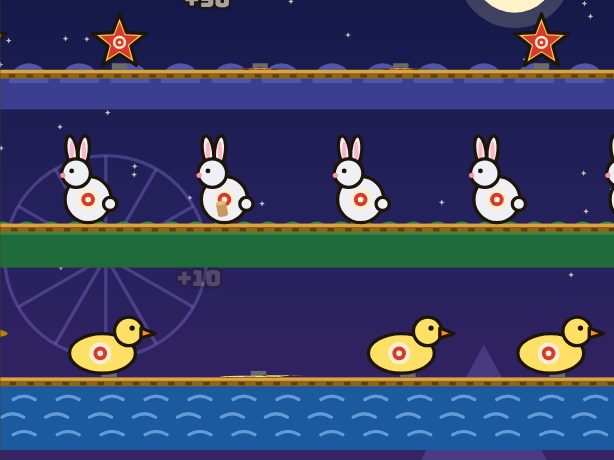
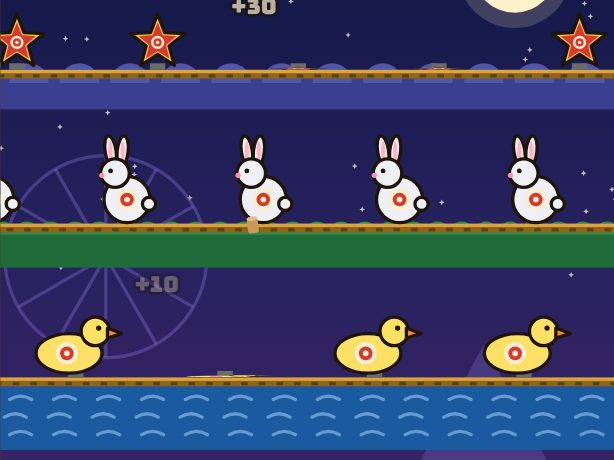
Popgun: harder to clean up
A first round scored 1,500, about double what the other machines pay for a
minute's play. Now:
- the rows run faster, and each one's motor surges a bit faster and slower
  as it goes, so a lead can't be set once and kept
- a cork takes about a third of a second, not a quarter, to get there
- a hit has to land on the tin itself, not the air round its edges
- the stars are smaller and worth 30, and the bell turns up less often

A steady hand that averaged about 1,150 in the simulation now averages
about 690: about 34 tickets a round.

Claude-Session: https://claude.ai/code/session_01RkvUFhzoaPZyofz3pSrJ5i

diff --git a/popgun/js/gallery.js b/popgun/js/gallery.js
@@ -2,14 +2,15 @@
 // a clock that only moves when step() is called, so node can test it (test/popgun.unit.test.mjs); js/draw.js draws it.
 //
 // The back of the booth is W across and H down, y down. Three rows of targets run along rails, each row the other way
-// from the one below: ducks at the bottom, slow and big; rabbits in the middle; small fast stars up top. Now and
-// then a golden duck comes along the bottom, and a bell along the top: a cork in the bell wins three more corks.
+// from the one below: ducks at the bottom, slow and big; rabbits in the middle; small fast stars up top. Each row's
+// motor runs a little faster, then a little slower, and back, so a lead that worked a moment ago won't quite now.
+// Now and then a golden duck comes along the bottom, and a bell along the top: a cork in the bell wins three more.
 // A cork takes a moment to get there (FLIGHT), so a moving target has to be led. A hit knocks the target flat, and
 // it stands up again once it's been round the back of the conveyor.
 
 export const W = 560, H = 560;
 export const CORKS = 20;            // in a round
-export const FLIGHT = 0.26;         // seconds from the gun to the back of the booth
+export const FLIGHT = 0.32;         // seconds from the gun to the back of the booth
 export const RELOAD = 0.3;          // seconds between shots
 export const STREAK = { run: 5, bonus: 50 }; // five hits in a row: fifty more
 export const MUZZLE = { x: W / 2, y: H + 90 }; // where the corks come from, down on the counter
@@ -19,15 +20,17 @@ export const KINDS = {
   duck: { w: 74, h: 58, points: 10 },
   gold: { w: 74, h: 58, points: 100 },
   rabbit: { w: 56, h: 76, points: 20 },
-  star: { w: 50, h: 50, points: 50 },
-  bell: { w: 46, h: 52, points: 0, corks: 3 },
+  star: { w: 44, h: 44, points: 30 },
+  bell: { w: 42, h: 48, points: 0, corks: 3 },
 };
-// The rows, top first: where the rail is, which way and how fast it runs (units a second), and what comes along it.
+// The rows, top first: where the rail is, which way and how fast it runs (units a second, on average), and what
+// comes along it.
 export const ROWS = [
-  { rail: 160, dir: 1, speed: 132, gap: 128, kinds: [['star', 0.9], ['bell', 0.1]] },
-  { rail: 300, dir: -1, speed: 92, gap: 124, kinds: [['rabbit', 1]] },
-  { rail: 440, dir: 1, speed: 64, gap: 136, kinds: [['duck', 0.9], ['gold', 0.1]] },
+  { rail: 160, dir: 1, speed: 172, gap: 128, kinds: [['star', 0.94], ['bell', 0.06]] },
+  { rail: 300, dir: -1, speed: 112, gap: 124, kinds: [['rabbit', 1]] },
+  { rail: 440, dir: 1, speed: 76, gap: 136, kinds: [['duck', 0.9], ['gold', 0.1]] },
 ];
+const SURGE = 0.22;                 // how far a row's speed wanders either side of its average
 const MARGIN = 80; // how far past the booth's sides a target goes before it's round the back
 
 export function createGallery({ random = Math.random } = {}) {
@@ -37,7 +40,8 @@ export function createGallery({ random = Math.random } = {}) {
     const n = Math.ceil((W + 2 * MARGIN) / row.gap), loop = n * row.gap;
     const offset = random() * row.gap;
     const targets = Array.from({ length: n }, (_, i) => ({ x: -MARGIN + offset + i * row.gap, kind: pick(row.kinds), down: 0, hit: false }));
-    return { ...row, loop, targets };
+    // now: how fast it's running this moment. travel: how far its chain has gone (for drawing the links).
+    return { ...row, loop, targets, now: row.speed, travel: 0, surge: { period: 5 + random() * 3, phase: random() * Math.PI * 2 } };
   });
   let clock = 0, reload = 0, corks = CORKS, score = 0, streak = 0, shots = 0, hits = 0, over = false;
   const flights = [];   // corks on their way: { from, to, t }
@@ -47,8 +51,10 @@ export function createGallery({ random = Math.random } = {}) {
     clock += dt;
     reload = Math.max(0, reload - dt);
     for (const row of rows) {
+      row.now = row.speed * (1 + SURGE * Math.sin((clock / row.surge.period) * Math.PI * 2 + row.surge.phase));
+      row.travel += row.now * dt;
       for (const t of row.targets) {
-        t.x += row.dir * row.speed * dt;
+        t.x += row.dir * row.now * dt;
         // round the back of the conveyor: in again at the other side, standing, maybe something else
         if (row.dir > 0 && t.x > W + MARGIN) { t.x -= row.loop; renew(row, t); }
         if (row.dir < 0 && t.x < -MARGIN) { t.x += row.loop; renew(row, t); }
@@ -66,8 +72,9 @@ export function createGallery({ random = Math.random } = {}) {
     for (const row of rows) {
       for (const t of row.targets) {
         if (t.hit) continue;
+        // the tin itself, not the air round its edges
         const k = KINDS[t.kind];
-        if (Math.abs(x - t.x) <= k.w * 0.48 && y <= row.rail + 2 && y >= row.rail - k.h * 0.98) return { row, t };
+        if (Math.abs(x - t.x) <= k.w * 0.4 && y <= row.rail - k.h * 0.06 && y >= row.rail - k.h * 0.92) return { row, t };
       }
     }
     return null;

diff --git a/popgun/index.html b/popgun/index.html
@@ -49,7 +49,7 @@
     <a class="floor to-floor" href="../">← Free Play</a>
     <div class="marquee"><h1>Popgun</h1></div>
     <p class="lede">A shooting gallery. Twenty corks, and tin targets running along the rails.</p>
-    <p class="how">Tap a target to fire a cork at it. The cork takes a moment to get there, so aim a little ahead of the fast ones. Ducks are 10, rabbits 20, and the little stars up top 50. A golden duck is 100, and a cork in the bell wins three more corks. Five hits in a row are worth 50 more. A ticket for every 20 points.</p>
+    <p class="how">Tap a target to fire a cork at it. The cork takes a moment to get there, so aim a little ahead of the fast ones. Ducks are 10, rabbits 20, and the little stars up top 30. A golden duck is 100, and a cork in the bell wins three more corks. Five hits in a row are worth 50 more. A ticket for every 20 points.</p>
     <div class="row">
       <button type="button" class="big" id="play">Play</button>
       <button type="button" class="plain" id="toPrizes"><svg><use href="#ticket"/></svg>Prize counter</button>

diff --git a/popgun/js/draw.js b/popgun/js/draw.js
@@ -193,7 +193,7 @@ export function createDraw(canvas) {
     // the chains the targets ride, moving
     for (const row of g.rows) {
       ctx.fillStyle = 'rgba(0, 0, 0, .35)';
-      const off = ((g.clock * row.speed * row.dir) % 16 + 16) % 16;
+      const off = ((row.travel * row.dir) % 16 + 16) % 16;
       for (let x = -16 + off; x < W + 16; x += 16) ctx.fillRect(x, row.rail + 4, 6, 3);
     }
     for (const m of marks) {

diff --git a/README.md b/README.md
@@ -115,8 +115,8 @@ A stacker: a tower against a night skyline, its windows the grid, seven across a
 A carnival shooting gallery: a booth with a striped awning, a painted night fair behind, and three rows of tin targets running along brass rails, each row the other way from the one below.
 
 - **Tap a target to fire** a cork at it from the popgun on the counter. (With a mouse, the pointer becomes the sights; on a keyboard, the arrows move them and Space fires.) A round is 20 corks, and the gun takes a moment to reload between them.
-- **Lead the fast ones.** A cork takes about a quarter of a second to reach the back of the booth, and the targets keep moving, so aim a little ahead of them: hardly at all for the ducks, about a star's width for the stars.
-- **What they're worth.** Ducks along the pond at the bottom are 10, rabbits in the middle 20, and the small fast stars up top 50. Now and then a golden duck comes along, worth 100, and a bell, which wins three more corks. Five hits in a row are worth 50 more. A target knocked flat stands up again once it's been round the back of the conveyor.
+- **Lead the fast ones.** A cork takes about a third of a second to reach the back of the booth, and the targets keep moving, so aim a little ahead of them: a little for the ducks, more than a star's width for the stars. Each row's motor surges a bit faster and a bit slower as it runs, so the lead that worked a moment ago won't quite now.
+- **What they're worth.** Ducks along the pond at the bottom are 10, rabbits in the middle 20, and the small fast stars up top 30. Now and then a golden duck comes along, worth 100, and a bell, which wins three more corks. Five hits in a row are worth 50 more. A target knocked flat stands up again once it's been round the back of the conveyor.
 - A ticket for every 20 points, paid at the end of the round. (Try the moon.)
 
 ## Where the machines came from
